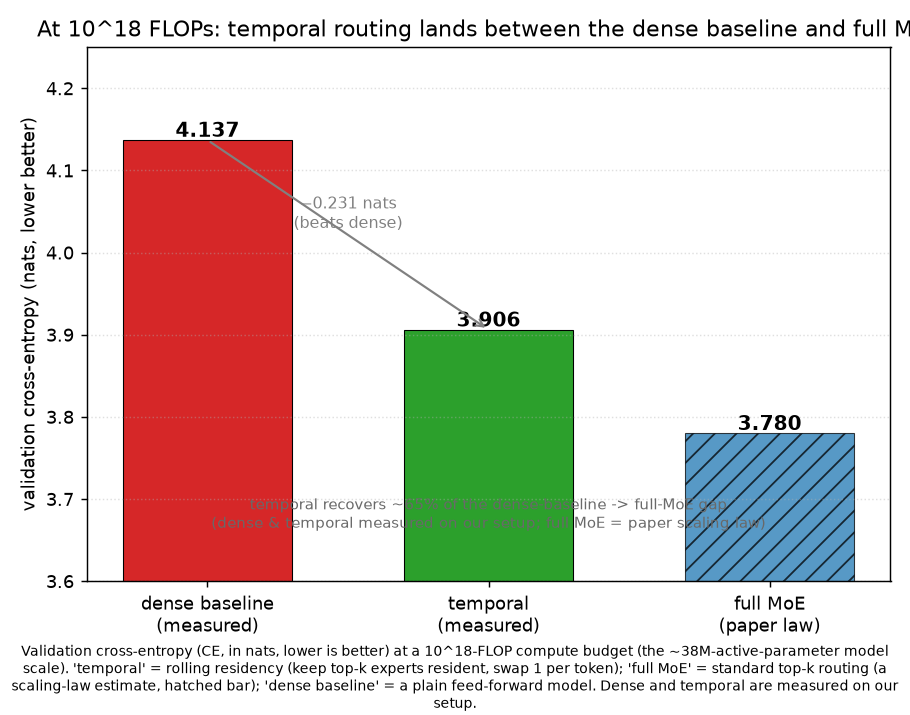
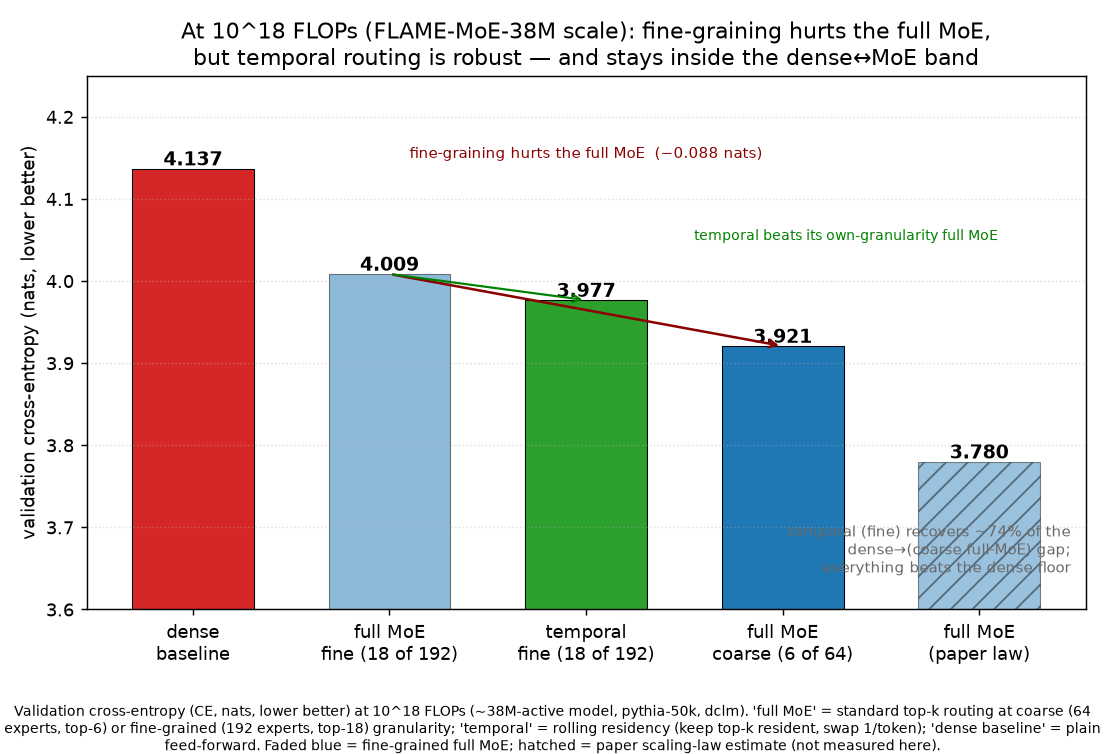
1e18 figure: regenerate with measured G3 results (4 configs, both findings)
plot_1e18.py now shows the full measured 1e18 panel — dense 4.137 > MoE fine (192) 4.009 >
temporal fine (18/192) 3.977 > MoE coarse (64) 3.921 > paper-law 3.78 — annotating the two
findings: fine-graining hurts the full MoE (-0.088), and temporal beats its own-granularity
full MoE (rolling residency concentrates training). Single-axes bar chart, CE metric.

diff --git a/scripts/phase0/plot_1e18.py b/scripts/phase0/plot_1e18.py
@@ -1,43 +1,52 @@
 #!/usr/bin/env python3
-"""1e18 (FLAME-MoE-38M-100M scale): where temporal lands between the dense floor and full MoE.
-Validation cross-entropy (nats, lower better), pythia-50k tokenizer, our dclm val split.
-Dense + temporal are measured on our setup; MoE is the paper's compute-optimal scaling-law value.
-Output: results/phase0/temporal_1e18_bars.png
+"""1e18 (FLAME-MoE-38M-100M scale): dense floor vs full MoE (coarse & fine-grained) vs temporal.
+Validation cross-entropy (nats, lower better), pythia-50k tokenizer, our dclm val split. Single axes.
+Measured locally on one val split: MoE coarse (64), MoE fine (192), temporal fine (18/192). Dense floor
+reused from the A6000 baseline (4.137; same corpus/tokenizer, cross-data <~0.01 nats). Paper MoE law = ref.
+Output: results/phase0/figures/temporal_vs_dense_and_moe_1e18_crossentropy.png
 """
 import matplotlib
 matplotlib.use("Agg")
 import matplotlib.pyplot as plt
 
-labels = ["dense baseline\n(measured)", "temporal\n(measured)", "full MoE\n(paper law)"]
-ce     = [4.137, 3.906, 3.78]
-colors = ["C3", "C2", "C0"]
+# worst -> best CE (left -> right)
+labels = ["dense\nbaseline", "full MoE\nfine (18 of 192)", "temporal\nfine (18 of 192)",
+          "full MoE\ncoarse (6 of 64)", "full MoE\n(paper law)"]
+ce     = [4.137, 4.0087, 3.9768, 3.9209, 3.78]
+colors = ["C3", "C0", "C2", "C0", "C0"]
 
-fig, ax = plt.subplots(figsize=(7, 5.5))
-bars = ax.bar(labels, ce, color=colors, width=0.6, edgecolor="k", linewidth=0.6)
-bars[2].set_hatch("//"); bars[2].set_alpha(0.75)   # MoE is a law estimate, not measured here
+fig, ax = plt.subplots(figsize=(8.5, 5.8))
+bars = ax.bar(labels, ce, color=colors, width=0.62, edgecolor="k", linewidth=0.6)
+bars[1].set_alpha(0.5)                                  # fine-grained full MoE (measured)
+bars[4].set_hatch("//"); bars[4].set_alpha(0.45)        # paper law estimate, not measured here
 for b, v in zip(bars, ce):
-    ax.text(b.get_x()+b.get_width()/2, v+0.004, f"{v:.3f}", ha="center", fontsize=11, fontweight="bold")
+    ax.text(b.get_x()+b.get_width()/2, v+0.004, f"{v:.3f}", ha="center", fontsize=10.5, fontweight="bold")
 
-# annotate the measured temporal-vs-dense gain and the recovery fraction
-ax.annotate("", xy=(1, 3.906), xytext=(0, 4.137),
-            arrowprops=dict(arrowstyle="->", color="gray", lw=1.2))
-ax.text(0.5, 4.03, "−0.231 nats\n(beats dense)", ha="center", fontsize=9, color="gray")
-rec = (4.137-3.906)/(4.137-3.78)*100
-ax.text(0.5, 0.10, f"temporal recovers ~{rec:.0f}% of the dense-baseline -> full-MoE gap\n"
-        "(dense & temporal measured on our setup; full MoE = paper scaling law)",
-        transform=ax.transAxes, ha="center", fontsize=8.5, color="dimgray")
+# finding 1: fine-graining hurts the full MoE (fine 4.009 -> coarse 3.921)
+ax.annotate("", xy=(3, 3.9209), xytext=(1, 4.0087),
+            arrowprops=dict(arrowstyle="->", color="darkred", lw=1.4))
+ax.text(2.0, 4.15, "fine-graining hurts the full MoE  (−0.088 nats)", ha="center", fontsize=8.5, color="darkred")
+# finding 2: temporal (fine) beats its own-granularity full MoE
+ax.annotate("", xy=(2, 3.9768), xytext=(1, 4.0087),
+            arrowprops=dict(arrowstyle="->", color="green", lw=1.2))
+ax.text(2.55, 4.05, "temporal beats its own-granularity full MoE", ha="left", fontsize=8, color="green")
+
+rec = (4.137 - 3.9768) / (4.137 - 3.9209) * 100
+ax.text(0.985, 0.06, f"temporal (fine) recovers ~{rec:.0f}% of the\ndense→(coarse full-MoE) gap;\neverything beats the dense floor",
+        transform=ax.transAxes, ha="right", va="bottom", fontsize=8.3, color="dimgray")
 
 ax.set_ylim(3.6, 4.25)
 ax.set_ylabel("validation cross-entropy (nats, lower better)")
-ax.set_title("At 10^18 FLOPs: temporal routing lands between the dense baseline and full MoE")
+ax.set_title("At 10^18 FLOPs (FLAME-MoE-38M scale): fine-graining hurts the full MoE,\n"
+             "but temporal routing is robust — and stays inside the dense↔MoE band")
 ax.grid(True, axis="y", ls=":", alpha=0.4)
-fig.text(0.5, 0.01,
-         "Validation cross-entropy (CE, in nats, lower is better) at a 10^18-FLOP compute budget "
-         "(the ~38M-active-parameter model scale). 'temporal' = rolling residency (keep top-k experts "
-         "resident, swap 1 per token); 'full MoE' = standard top-k routing (a scaling-law estimate, hatched "
-         "bar); 'dense baseline' = a plain feed-forward model. Dense and temporal are measured on our setup.",
-         ha="center", fontsize=8, wrap=True)
-fig.tight_layout(rect=[0, 0.08, 1, 1])
+fig.text(0.5, 0.005,
+         "Validation cross-entropy (CE, nats, lower better) at 10^18 FLOPs (~38M-active model, pythia-50k, "
+         "dclm). 'full MoE' = standard top-k routing at coarse (64 experts, top-6) or fine-grained (192 "
+         "experts, top-18) granularity; 'temporal' = rolling residency (keep top-k resident, swap 1/token); "
+         "'dense baseline' = plain feed-forward. Faded blue = fine-grained full MoE; hatched = paper "
+         "scaling-law estimate (not measured here).", ha="center", fontsize=7.8, wrap=True)
+fig.tight_layout(rect=[0, 0.09, 1, 1])
 out = "/workspace/FLAME-MoE/results/phase0/figures/temporal_vs_dense_and_moe_1e18_crossentropy.png"
 fig.savefig(out, dpi=130)
 print("wrote", out)
